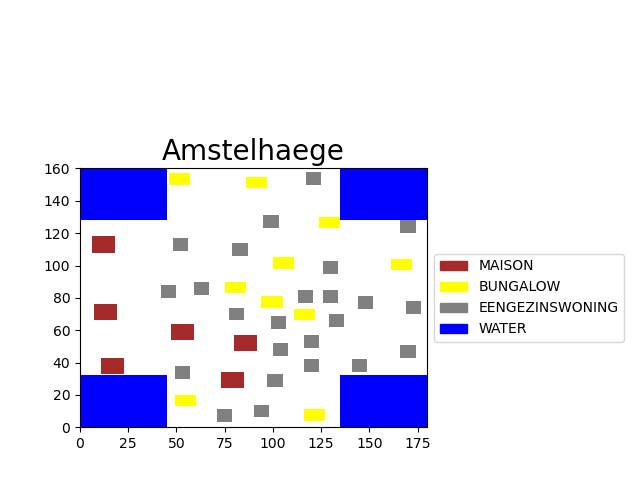
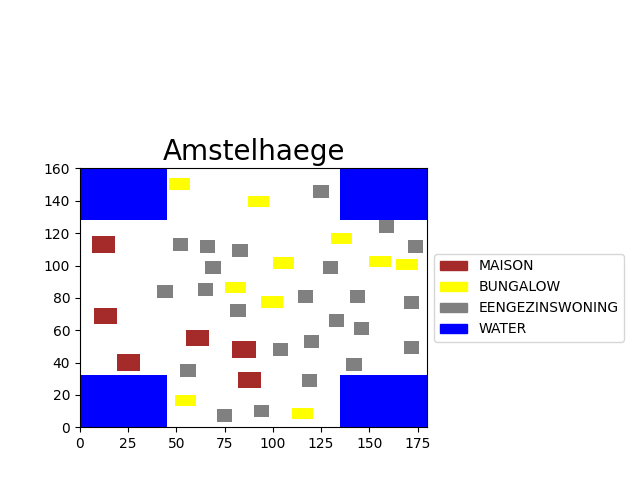
fix swap

diff --git a/code/algorithms/hillclimbing.py b/code/algorithms/hillclimbing.py
@@ -73,7 +73,7 @@ class HillClimber:
     def swap_house(self, new_map, list_of_houses):
 
         # Select the first and third house and swap them with the second and fourth
-        for i in range(0, 4, 2):
+        for i in range(0, 2, 2):
 
             # Swap the coordinates of the houses
             first_house = list_of_houses[i]
@@ -87,42 +87,42 @@ class HillClimber:
             new_map.all_houses[first_house] = house
 
             # Check if the house intersect with water, if so, cancel the swap
-            intersect = False
+            intersect = True
             for g in range(0, len(new_map.all_waters)):
                 water = new_map.all_waters[g]
                 intersect = new_map.all_houses[second_house].intersect(water) or new_map.all_houses[first_house].intersect(water)
 
                 if intersect == True:
-                    new_map = copy.deepcopy(self.map)
+                    break
+            for g in range(0, len(new_map.all_waters)):
+                water = new_map.all_waters[g]
+                intersect = new_map.all_houses[second_house].intersect(water)
+                if intersect == True:
                     break
 
-            # Check if the new house itersects with the other houses, if so, cancel the swap
+            if intersect == False:
+                for g in range(0, len(new_map.all_waters)):
+                    water = new_map.all_waters[g]
+                    new_map.all_houses[first_house].intersect(water)
+                    if intersect == True:
+                        break
+
             if intersect == False:
                 for p in range(0, len(new_map.all_houses)):
-                    if p == first_house or p == second_house:
+                    if p == first_house:
                         continue
-
-                    intersect = new_map.all_houses[first_house].intersect(new_map.all_houses[p]) or new_map.all_houses[second_house].intersect(new_map.all_houses[p])
+                    intersect = new_map.all_houses[first_house].intersect(new_map.all_houses[p])
                     if intersect == True:
-                        new_map = copy.deepcopy(self.map)
                         break
 
-            # Check if the minimum free distance is on the map
             if intersect == False:
-                for houses in [house, other_house]:
-                    if houses.type == 'maison':
-                        intersect = houses.check_distance()
-
-                    if houses.type == 'bungalow':
-                        intersect = houses.check_distance()
-
-                    if houses.type == 'eengezinswoning':
-                        intersect = houses.check_distance()
-
+                for p in range(0, len(new_map.all_houses)):
+                    if p == second_house:
+                        continue
+                    intersect = new_map.all_houses[second_house].intersect(new_map.all_houses[p])
                     if intersect == True:
-                        new_map = copy.deepcopy(self.map)
                         break
-
+                    
             # Check if the solution is better
             if intersect == False:
                 self.check_solution(new_map)
@@ -165,7 +165,7 @@ class HillClimber:
 
         for iteration in range(iterations):
 
-            if iteration % 1000 == 0:
+            if iteration % 100 == 0:
                 # Nice trick to only print if variable is set to True
                 print(f'Iteration {iteration}/{iterations}, current value: {self.value}') if verbose else None
 
@@ -184,9 +184,10 @@ class HillClimber:
 
         times = int(500)
         for i in range(times):
+            new_map = copy.deepcopy(self.map)
             if i % 1000 == 0:
                 print(f'i {i}/{iterations/10}, current value: {self.value}')
-            my_houses = random.sample(select_houses, 4)
+            my_houses = random.sample(select_houses, 2)
             self.swap_house(new_map, my_houses)
 
 #        Does not improve score

diff --git a/main.py b/main.py
@@ -32,7 +32,7 @@ if __name__ == "__main__":
 
     # Run the hill climber and print that solution
     hillclimb = HillClimber(map)
-    map = hillclimb.run(5000, mutate_houses_number=1)
+    map = hillclimb.run(500, mutate_houses_number=1)
     better_solution = hillclimb.value
     print('Algoritm solution: ', better_solution)
 
